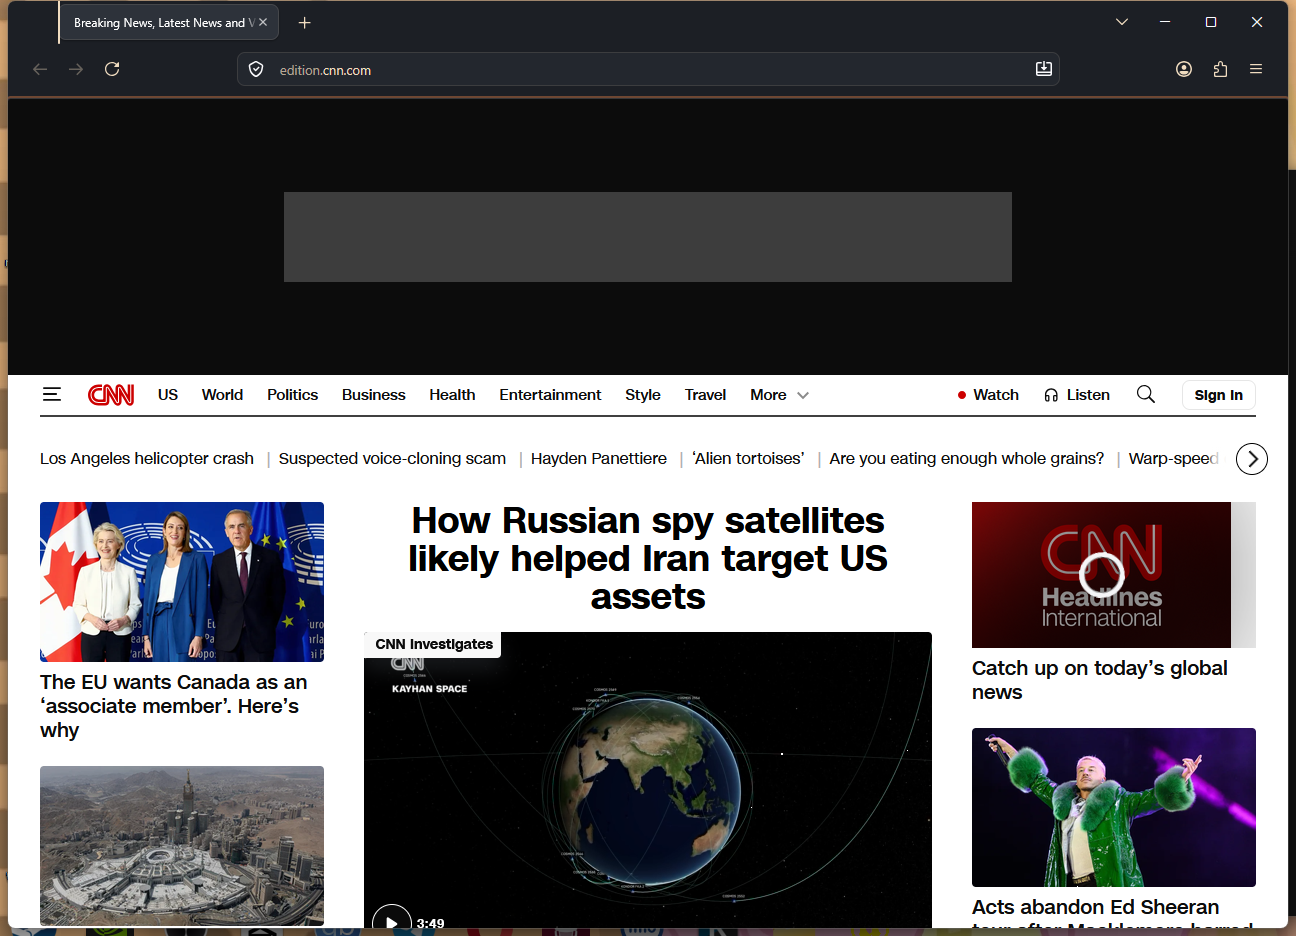
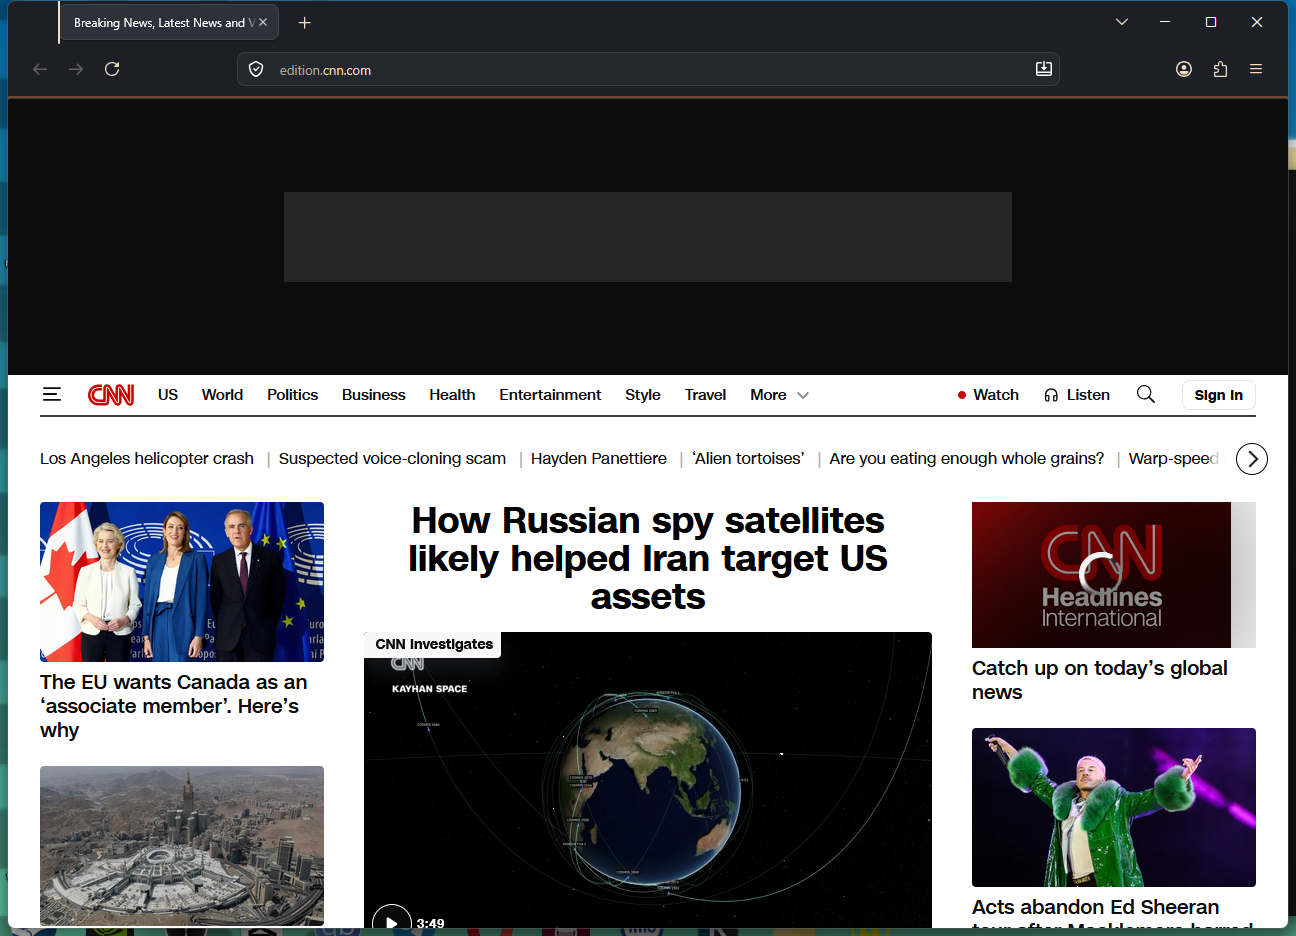
Fix half-started browser: register BrowserGlue for our app ID
The built browser opened windows and loaded sites, and the acceptance check
passed. It was still broken underneath.

Symptoms that looked unrelated: the tracker counter never appeared,
Marionette hung on every new session, and the Browser Console showed
"No such JSWindowActor 'Urlbar'" and "'Conduits'" by the dozen, with
built-in extensions failing and SessionStore complaining it was called
too early.

The root cause is one line in browser/components/BrowserComponents.manifest:
BrowserGlue, the component that drives browser startup, is registered for
the app-startup category only for Firefox's and Firefox for Android's app
IDs. The filter keeps it out of xpcshell. Our fork has its own app ID, so
BrowserGlue never started — and with it went window actor registration,
session restore, the idle-startup signal Marionette waits for, and whatever
else hangs off it. No build error, no crash.

The fix adds our ID to that list. The ID must match browser/moz.configure,
and verify-build.py now checks the pairing — confirmed to fail against the
broken build before rebuilding.

Found through the Browser Console (vantara.exe -jsconsole). stderr never
showed the early startup errors; the console showed the urlbar exception
with a stack, and the stack led here.

Also noted in the threat model: captive portal detection polls
firefox-portal-detection.com over HTTP.

diff --git a/tools/verify-build.py b/tools/verify-build.py
@@ -99,6 +99,19 @@ def main() -> int:
         check(app_id != FIREFOX_APP_ID and bool(app_id),
               "Идентификатор отличается от Firefox",
               f"получено: {app_id or 'пусто'}")
+
+        # BrowserGlue — центральный компонент старта — регистрируется только
+        # для перечисленных ID приложений. Смени ID и забудь дописать его
+        # сюда — браузер откроется и будет грузить сайты, но без акторов
+        # окна, без восстановления сессии и со сломанными встроенными
+        # расширениями. Ни одной ошибки сборки при этом не будет.
+        components = DIST / "browser" / "components" / "BrowserComponents.manifest"
+        if components.exists() and app_id:
+            glue = [l for l in components.read_text(encoding="utf-8").splitlines()
+                    if "nsBrowserGlue" in l and l.startswith("category app-startup")]
+            registered = any(f"application={app_id}" in l for l in glue)
+            check(registered, "BrowserGlue запускается для этого ID",
+                  "" if registered else f"{app_id} нет в BrowserComponents.manifest")
     else:
         check(False, "application.ini на месте", "файла нет")
 

diff --git a/docs/BUILD.md b/docs/BUILD.md
@@ -254,6 +254,25 @@ git commit -m "Milestone marker for build versioning"
 
 Повторять после каждого `surfer download`, который создаёт движок заново.
 
+**8. Смена ID приложения ломает старт браузера — молча.** Центральный
+компонент старта, `BrowserGlue`, зарегистрирован в
+`browser/components/BrowserComponents.manifest` только для ID Firefox
+(`application={ec8030f7-…}`). Фильтр нужен, чтобы компонент не грузился
+в тестовой оболочке xpcshell.
+
+Форк со своим ID запускается, открывает окно и грузит сайты — но
+`BrowserGlue` не стартует. Следствия: не зарегистрированы акторы окна
+(`No such JSWindowActor 'Urlbar'`, `'Conduits'`), не восстанавливается
+сессия, падают встроенные расширения, не приходит сигнал завершения
+старта — и на нём зависает Marionette. Ни одной ошибки сборки.
+
+Наш ID дописан в этот список патчем. ID там и в `browser/moz.configure`
+обязаны совпадать — `tools/verify-build.py` это проверяет.
+
+Найдено через Browser Console (`vantara.exe -jsconsole`): stderr ранние
+ошибки старта не показывает, а консоль показала исключение адресной строки
+со стеком, который и вывел на причину.
+
 Отдельно: mach определяет запуск из-под ИИ-агента по переменной `CLAUDECODE`
 и сокращает вывод до предупреждений и ошибок. Полный вывод — флаг `--verbose`.
 
